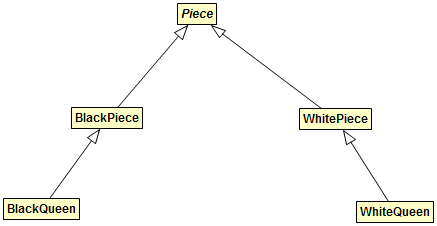
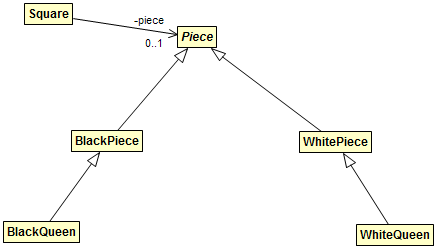
added changes to start method, but mandatory capturing doesn't work

diff --git a/src/base/model1/Board.java b/src/base/model1/Board.java
@@ -21,33 +21,50 @@ public class Board {
 
 	public static final char BLACK_QUEEN = 'B';
 
-	//	private final char[][] board = new char[ROWS][COLS];
-
 	private final Square[][] squares = new Square[ROWS][COLS];
 
-	//	private List<Piece> pieces
+	private final List<Piece> pieces = new ArrayList<>();
+	
+	private final List<Square> listSquares = new ArrayList<>();
 
 	protected void initBoard() {
 		for (int row = 0; row < ROWS; row ++) {
 			for (int col = 0; col < COLS; col ++) {
 				if (row % 2 == 0 ^ col % 2 == 0) {
-					//					board[row][col] = BLACK_SQUARE;
 					Square square = new Square(BLACK_SQUARE);
 					squares[row][col] = square;
 
 					// Black squares may contain pieces.
+					Piece piece;
 					if (row < 3) {
-						square.setPiece(new BlackPiece(row, col));
+						square.setPiece(piece = new BlackPiece(row, col));
+						pieces.add(piece);
 					} else if (row > 4) {
-						square.setPiece(new WhitePiece(row, col));
+						square.setPiece(piece = new WhitePiece(row, col));
+						pieces.add(piece);
 					}
 
-				} else {
-					//					board[row][col] = WHITE_SQUARE;
+
+				} else { // TODO delete?
 					squares[row][col] = new Square(WHITE_SQUARE);
 				}
 			}
 		}
+	}
+	
+	/*
+	 * Sample position:
+	 * b4,a1;c5,e5
+	 */
+	protected void initBoard(String position) {
+		String [] sides = position.split(";");
+		String [] whites = sides[0].split(",");
+		String [] blacks = sides[1].split(",");
+		
+	}
+
+	protected boolean isInRange(int row, int col) {
+		return row >= 0 && row < ROWS && col >= 0 && col < COLS;
 	}
 
 	protected final int getRow(String code) {
@@ -59,19 +76,29 @@ public class Board {
 	}	
 
 	protected boolean isSquareEmpty(int row, int col) {
+		if (!isInRange(row, col)) {
+			return false;
+		}
 		return squares[row][col].isEmpty();
 	}
 
 	protected boolean isBlackPiece(int row, int col) {
+		if (!isInRange(row, col)) {
+			return false;
+		}
 		return squares[row][col].isBlackPiece();
 	}
 
 	protected boolean isWhitePiece(int row, int col) {
+		if (!isInRange(row, col)) {
+			return false;
+		}
 		return squares[row][col].isWhitePiece();
 	}
 
 	protected void removePiece(int row, int col) {
-		squares[row][col].setPiece(null);
+		pieces.remove(squares[row][col].getPiece());
+		squares[row][col].setPiece(null);		
 	}
 
 	protected void setPiece(Piece piece) {
@@ -84,8 +111,50 @@ public class Board {
 		int colFrom = getCol(fromTo[0]);
 		int rowTo = getRow(fromTo[1]);
 		int colTo = getCol(fromTo[1]);
-//		System.out.println(rowFrom + " " + colFrom);
+		//		System.out.println(rowFrom + " " + colFrom);
+		if (squares[rowFrom][colFrom].getPiece() == null) {
+			return false;
+		}
 		return squares[rowFrom][colFrom].getPiece().move(rowTo, colTo, this);
+	}
+
+	protected boolean canWhiteCapture() {
+		for (Piece piece: pieces) {
+			if ((piece.getMark() == WHITE_CHECKER || piece.getMark() == WHITE_QUEEN) &&
+					piece.canCapture(this)) {
+				return true;
+			}
+		}
+		return false;
+	}
+
+	protected boolean canBlackCapture() {
+		for (Piece piece: pieces) {
+			if ((piece.getMark() == BLACK_CHECKER || piece.getMark() == BLACK_QUEEN) &&
+					piece.canCapture(this)) {
+				return true;
+			}
+		}
+		return false;
+	}
+
+	protected boolean canWhiteMove() {
+		return pieces.stream().filter(p -> 
+		(p.getMark() == WHITE_CHECKER || p.getMark() == WHITE_QUEEN) && 
+		p.canMove(this)).findAny().isPresent();
+	}
+
+	protected boolean canBlackMove() {
+		return pieces.stream().filter(p -> 
+		(p.getMark() == BLACK_CHECKER || p.getMark() == BLACK_QUEEN) && 
+		p.canMove(this)).findAny().isPresent();
+	}
+	
+	protected boolean isCapture(String code) {
+		String [] fromTo = code.split("[-:]");
+		int rowFrom = getRow(fromTo[0]);
+		int rowTo = getRow(fromTo[1]);
+		return Math.abs(rowFrom - rowTo) >= 2;
 	}
 
 	@Override

diff --git a/src/base/model1/WhitePiece.java b/src/base/model1/WhitePiece.java
@@ -15,7 +15,7 @@ public class WhitePiece extends Piece {
 	protected boolean move(int row, int col, Board board) {
 
 		if (!super.move(row, col, board)) {
-			System.out.println(1);
+			System.out.println("WhitePiece.move(): super.move(..)");
 			return false;
 		}
 
@@ -27,7 +27,7 @@ public class WhitePiece extends Piece {
 			int colBlack = (col + this.col) / 2;
 
 			if (!board.isBlackPiece(rowBlack, colBlack)) {		
-				System.out.println("WhitePiece.move(): white piece");		
+				System.out.println("WhitePiece.move(): white piece or nothing");		
 				return false;				
 			} 
 
@@ -46,33 +46,39 @@ public class WhitePiece extends Piece {
 		return true;
 	}
 
-	public static void main(String...args) {
 
-		Board b = new Board();
-		b.initBoard();
-		System.out.println(b);
-		if (b.move("a3-b4")) {
-			System.out.println(b);			
+	@Override
+	protected boolean canCapture(Board board) {
+		if (board.isBlackPiece(row + 1, col + 1) && board.isSquareEmpty(row + 2, col + 2)) {
+			System.out.println("WhitePiece.canCapture(): 1 " + row + " : " + col);
+			return true;
 		}
-		if (b.move("b6-a5")) {
-			System.out.println(b);		
+		if (board.isBlackPiece(row + 1, col - 1) && board.isSquareEmpty(row + 2, col - 2)) {
+			System.out.println("WhitePiece.canCapture(): 2 " + row + " : " + col);
+			return true;
 		}
-		if (b.move("b4-a3")) {
-			System.out.println(b);
+		if (board.isBlackPiece(row - 1, col + 1) && board.isSquareEmpty(row - 2, col + 2)) {
+			System.out.println("WhitePiece.canCapture(): 3 " + row + " : " + col);
+			return true;
 		}
-		if (b.move("a5-b6")) {
-			System.out.println(b);
+		if (board.isBlackPiece(row - 1, col - 1) && board.isSquareEmpty(row - 2, col - 2)) {
+			System.out.println("WhitePiece.canCapture(): 4 " + row + " : " + col);
+			return true;
 		}
-		if (b.move("c3-d4")) {
-			System.out.println(b);
-		}
-		if (b.move("a5:c3")) {
-			System.out.println(b);
-		}
-		if (b.move("c3:e5")) {
-			System.out.println(b);
-		}
-
+		return false;
 	}
+
+	@Override
+	protected boolean canMove(Board board) {
+		if (board.isSquareEmpty(row - 1, col + 1)) {
+			return true;
+		}
+		if (board.isSquareEmpty(row - 1, col - 1)) {
+			return true;
+		}
+		return false;
+	}
+	
+	
 
 }

diff --git a/src/base/model1/BlackPiece.java b/src/base/model1/BlackPiece.java
@@ -26,7 +26,7 @@ public class BlackPiece extends Piece {
 			int colWhite = (col + this.col) / 2;
 
 			if (!board.isWhitePiece(rowWhite, colWhite)) {		
-				System.out.println("BlackPiece.move(): black piece");		
+				System.out.println("BlackPiece.move(): black piece or nothing");		
 				return false;				
 			} 
 
@@ -43,6 +43,34 @@ public class BlackPiece extends Piece {
 		}
 
 		return true;
+	}
+
+	@Override
+	protected boolean canCapture(Board board) {
+		if (board.isWhitePiece(row + 1, col + 1) && board.isSquareEmpty(row + 2, col + 2)) {
+			return true;
+		}
+		if (board.isWhitePiece(row + 1, col - 1) && board.isSquareEmpty(row + 2, col - 2)) {
+			return true;
+		}
+		if (board.isWhitePiece(row - 1, col + 1) && board.isSquareEmpty(row - 2, col + 2)) {
+			return true;
+		}
+		if (board.isWhitePiece(row - 1, col - 1) && board.isSquareEmpty(row - 2, col - 2)) {
+			return true;
+		}
+		return false;
+	}
+
+	@Override
+	protected boolean canMove(Board board) {
+		if (board.isSquareEmpty(row + 1, col + 1)) {
+			return true;
+		}
+		if (board.isSquareEmpty(row + 1, col - 1)) {
+			return true;
+		}
+		return false;
 	}
 
 }

diff --git a/src/base/model/Board.java b/src/base/model/Board.java
@@ -199,11 +199,17 @@ public class Board {
 		board[rowTo][colTo] = board[rowFrom][colFrom];
 		board[rowFrom][colFrom] = BLACK_SQUARE;
 	}
+	
+	
 
 	public static void main(String[] args) {
 
 		Board b = new Board();
 
+		System.out.println(b);
+		
+		b.move("a3-b3");
+		
 		System.out.println(b);
 
 	}

diff --git a/src/base/model1/Piece.java b/src/base/model1/Piece.java
@@ -40,5 +40,10 @@ public abstract class Piece {
 		this.col = col;
 		board.setPiece(this);
 	}
+	
+	
+	protected abstract boolean canCapture(Board board);
+	
+	protected abstract boolean canMove(Board board);
 
 }

diff --git a/src/base/model/Piece.java b/src/base/model/Piece.java
@@ -47,7 +47,7 @@ public abstract class Piece implements Checker {
 
 	@Override
 	public boolean move(String move, Board board) {
-		// TODO Auto-generated method stub
+
 		return false;
 	}
 	
